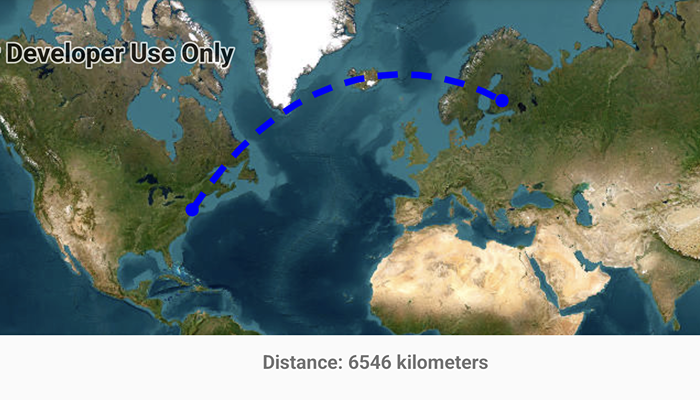
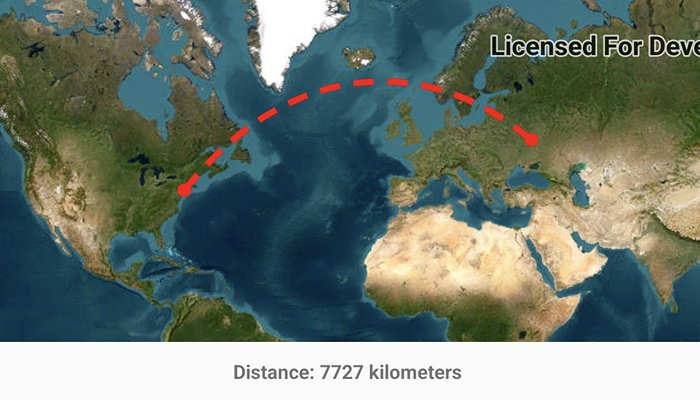
changed layout and pr updates

diff --git a/show-geodesic-path-between-two-points/src/main/java/com/esri/arcgismaps/sample/showgeodesicpathbetweentwopoints/MainActivity.kt b/show-geodesic-path-between-two-points/src/main/java/com/esri/arcgismaps/sample/showgeodesicpathbetweentwopoints/MainActivity.kt
@@ -25,9 +25,16 @@ import androidx.lifecycle.lifecycleScope
 import com.arcgismaps.ApiKey
 import com.arcgismaps.ArcGISEnvironment
 import com.arcgismaps.Color
-import com.arcgismaps.geometry.*
+import com.arcgismaps.geometry.LinearUnit
+import com.arcgismaps.geometry.LinearUnitId
+import com.arcgismaps.geometry.Point
+import com.arcgismaps.geometry.SpatialReference
+import com.arcgismaps.geometry.GeometryEngine
+import com.arcgismaps.geometry.Polyline
+import com.arcgismaps.geometry.GeodeticCurveType
 import com.arcgismaps.mapping.ArcGISMap
 import com.arcgismaps.mapping.BasemapStyle
+import com.arcgismaps.mapping.Viewpoint
 import com.arcgismaps.mapping.symbology.SimpleLineSymbol
 import com.arcgismaps.mapping.symbology.SimpleLineSymbolStyle
 import com.arcgismaps.mapping.symbology.SimpleMarkerSymbol
@@ -58,7 +65,7 @@ class MainActivity : AppCompatActivity() {
         activityMainBinding.infoTextView
     }
 
-    // a blue marker symbol for the location points
+    // a red marker symbol for the location points
     private val locationMarkerSymbol by lazy {
         SimpleMarkerSymbol(
             SimpleMarkerSymbolStyle.Circle,
@@ -110,7 +117,9 @@ class MainActivity : AppCompatActivity() {
         lifecycle.addObserver(mapView)
 
         // create and add a map with a navigation night basemap style
-        val map = ArcGISMap(BasemapStyle.ArcGISImageryStandard)
+        val map = ArcGISMap(BasemapStyle.ArcGISImageryStandard).apply {
+            initialViewpoint = Viewpoint(Point(34.77, -10.24), 20e7)
+        }
         // configure mapView assignments
         mapView.apply {
             this.map = map
@@ -138,7 +147,7 @@ class MainActivity : AppCompatActivity() {
     }
 
     /**
-     * displays the destination location marker at the tapped location
+     * Displays the destination location marker at the tapped location
      * and draws a geodesic path curve using GeometryEngine.densifyGeodetic
      * and computes the distance using GeometryEngine.lengthGeodetic
      */
